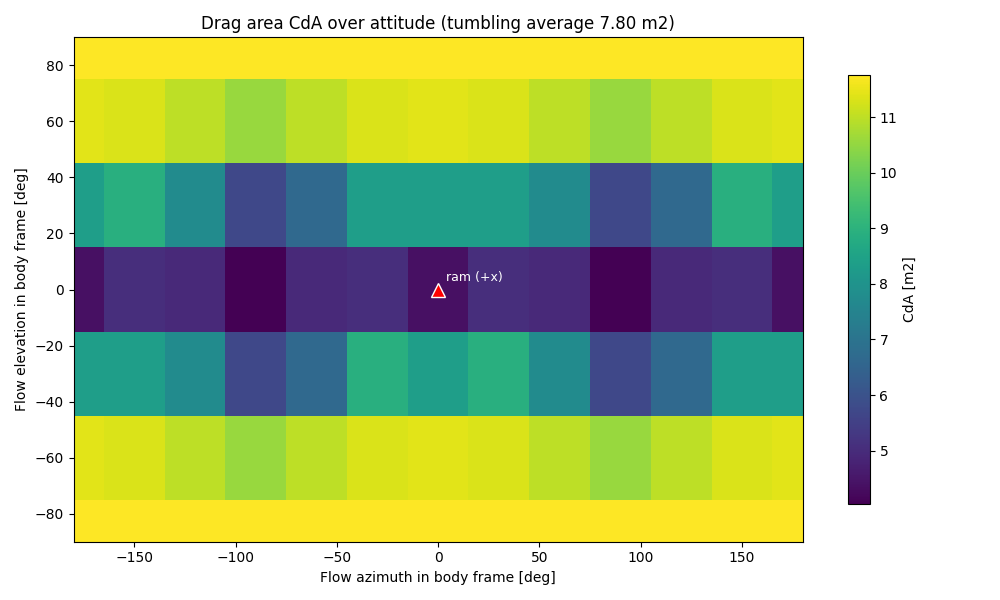
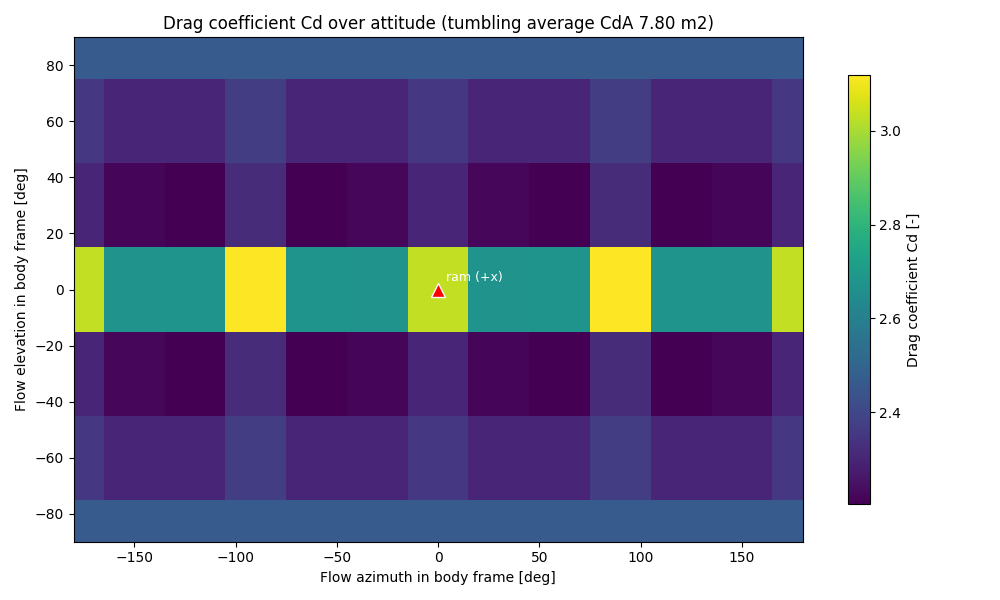
sat_drag_coefficient: separate Cd and area attitude maps, annotated 3D model figure
- The single CdA attitude map is replaced by a drag coefficient map
  (referenced to the projected area of each attitude) and a projected area
  map; the attitude CSV gains area_m2 and cd columns
- New <type>_model.png: 3D render of the satellite mesh with the body axes
  (+x flight/ram, +y, +z nadir) and the azimuth/elevation definition of the
  attitude sweep drawn as arcs on an example flow direction

diff --git a/src/analysis_sat.py b/src/analysis_sat.py
@@ -8,6 +8,8 @@ Satellite platform (subsystem) analyses:
 All work with any orbit propagator; sat_aocs samples the HPOP atmosphere
 model when available and falls back to a built-in exponential atmosphere.
 """
+import os
+
 import numpy as np
 import matplotlib.pyplot as plt
 from math import degrees, radians
@@ -793,6 +795,7 @@ class AnalysisSatDragCoefficient(AnalysisBase):
             .cell_data['Area'], dtype=float)
         self._centroids = np.asarray(mesh.cell_centers().points, dtype=float)
         self._mesh_length = float(mesh.length)
+        self._mesh = mesh  # Kept for the annotated 3D model figure
         self._obb = None
         if self.shadowing:
             import vtk
@@ -817,6 +820,61 @@ class AnalysisSatDragCoefficient(AnalysisBase):
                 if self._obb.IntersectWithLine(origin, end, points, None):
                     visible[i] = False
         return gamma[visible], self._areas[visible]
+
+    def _plot_model_3d(self, sm):
+        """Annotated 3D render of the satellite mesh with the body axes and
+        the azimuth/elevation definition of the attitude sweep (azimuth from
+        +x in the x/y plane, elevation towards +z), written to
+        <type>_model.png."""
+        import pyvista as pv
+        off_screen = os.environ.get('MPLBACKEND', '').lower() == 'agg'
+        plotter = pv.Plotter(off_screen=off_screen, window_size=[1200, 900])
+        plotter.set_background('white')
+        plotter.add_mesh(self._mesh, color='lightgray', show_edges=True,
+                         edge_color='darkgray')
+        scale = self._mesh_length * 0.7
+        origin = np.zeros(3)
+        axes = [(np.array([1.0, 0.0, 0.0]), 'red', '+x flight / ram (az=0, el=0)'),
+                (np.array([0.0, 1.0, 0.0]), 'green', '+y (az=90)'),
+                (np.array([0.0, 0.0, 1.0]), 'blue', '+z nadir (el=90)')]
+        label_points, label_texts = [], []
+        for direction, color, label in axes:
+            plotter.add_mesh(pv.Arrow(start=origin, direction=direction,
+                                      scale=scale, tip_radius=0.03,
+                                      shaft_radius=0.012), color=color)
+            label_points.append(direction * scale * 1.08)
+            label_texts.append(label)
+        # Example flow direction with its azimuth and elevation arcs
+        az, el = np.radians(45.0), np.radians(30.0)
+        flow = np.array([np.cos(el) * np.cos(az), np.cos(el) * np.sin(az),
+                         np.sin(el)])
+        plotter.add_mesh(pv.Arrow(start=origin, direction=flow, scale=scale,
+                                  tip_radius=0.03, shaft_radius=0.012),
+                         color='orange')
+        label_points.append(flow * scale * 1.1)
+        label_texts.append('flow direction (az=45, el=30)')
+        radius = 0.55 * scale
+        in_plane = np.array([np.cos(az), np.sin(az), 0.0])
+        az_arc = pv.CircularArc(pointa=np.array([radius, 0.0, 0.0]),
+                                pointb=in_plane * radius, center=origin)
+        el_arc = pv.CircularArc(pointa=in_plane * radius,
+                                pointb=flow * radius, center=origin)
+        plotter.add_mesh(az_arc, color='orange', line_width=3)
+        plotter.add_mesh(el_arc, color='orange', line_width=3)
+        mid_az = np.array([np.cos(az / 2.0), np.sin(az / 2.0), 0.0])
+        label_points.append(mid_az * radius * 1.05)
+        label_texts.append('azimuth')
+        mid_dir = in_plane * np.cos(el / 2.0) + \
+            np.array([0.0, 0.0, np.sin(el / 2.0)])
+        label_points.append(mid_dir * radius * 1.05)
+        label_texts.append('elevation')
+        plotter.add_point_labels(np.array(label_points), label_texts,
+                                 font_size=16, text_color='black',
+                                 shape=None, always_visible=True,
+                                 show_points=False)
+        plotter.view_isometric()
+        plotter.screenshot(sm.output_path(self.type + '_model.png'))
+        plotter.close()
 
     def _atmosphere(self, altitude_m, v_rel):
         """(speed ratio s, re-emission velocity ratio) at altitude from the
@@ -889,12 +947,15 @@ class AnalysisSatDragCoefficient(AnalysisBase):
         azimuths = np.arange(-180.0, 180.0 + 1e-9, self.attitude_step)
         elevations = np.arange(-90.0, 90.0 + 1e-9, self.attitude_step)
         cda_map = np.zeros((len(elevations), len(azimuths)))
+        area_map = np.zeros_like(cda_map)
         for i, el in enumerate(np.radians(elevations)):
             for j, az in enumerate(np.radians(azimuths)):
                 direction = np.array([np.cos(el) * np.cos(az),
                                       np.cos(el) * np.sin(az), np.sin(el)])
                 gamma, areas = self._incidence(direction)
                 cda_map[i, j] = sentman_cda(gamma, areas, mean_s, mean_v_ratio)
+                area_map[i, j] = float(np.sum(np.clip(gamma, 0.0, None) * areas))
+        cd_map = cda_map / np.maximum(area_map, 1e-12)
         weights = np.cos(np.radians(elevations))[:, None] * np.ones(len(azimuths))
         tumbling_cda = float(np.sum(cda_map * weights) / np.sum(weights))
 
@@ -903,29 +964,39 @@ class AnalysisSatDragCoefficient(AnalysisBase):
         ls.logger.info(f'{self.type}: nadir-fixed (+x ram) CdA {ram_cda:.3f} m2, '
                        f'Cd {ram_cd:.3f} on {self._ram_area:.2f} m2 projected area '
                        f'(speed ratio {mean_s:.1f})')
-        ls.logger.info(f'{self.type}: attitude sweep CdA {cda_map.min():.3f} .. '
-                       f'{cda_map.max():.3f} m2, tumbling average {tumbling_cda:.3f} m2')
+        ls.logger.info(f'{self.type}: attitude sweep projected area '
+                       f'{area_map.min():.2f} .. {area_map.max():.2f} m2, Cd '
+                       f'{cd_map.min():.2f} .. {cd_map.max():.2f}, CdA '
+                       f'{cda_map.min():.3f} .. {cda_map.max():.3f} m2, '
+                       f'tumbling average CdA {tumbling_cda:.3f} m2')
         ls.logger.info(f'{self.type}: suggested config values '
                        f'<DragArea>{self._ram_area:.3f}</DragArea> '
                        f'<DragCd>{ram_cd:.3f}</DragCd> (nadir-fixed), or '
                        f'DragArea*DragCd = {tumbling_cda:.3f} m2 (tumbling)')
 
-        fig, ax = plt.subplots(figsize=(10, 6))
-        mesh_plot = ax.pcolormesh(azimuths, elevations, cda_map, shading='auto',
-                                  cmap=plt.cm.viridis)
-        ax.plot(0.0, 0.0, 'r^', markersize=10, markeredgecolor='white')
-        ax.annotate('ram (+x)', (0.0, 0.0), xytext=(6, 6),
-                    textcoords='offset points', color='white', fontsize=9)
-        ax.set_xlabel('Flow azimuth in body frame [deg]')
-        ax.set_ylabel('Flow elevation in body frame [deg]')
-        ax.set_xlim(-180, 180)
-        ax.set_ylim(-90, 90)
-        ax.set_title(f'Drag area CdA over attitude (tumbling average '
-                     f'{tumbling_cda:.2f} m2)')
-        plt.colorbar(mesh_plot, ax=ax, shrink=0.85, label='CdA [m2]')
-        fig.tight_layout()
-        plt.savefig(sm.output_path(self.type + '.png'))
-        plt.show()
+        # Separate attitude maps for the drag coefficient (referenced to the
+        # projected area of each attitude) and the projected area itself
+        for values, label, suffix in (
+                (cd_map, 'Drag coefficient Cd [-]', ''),
+                (area_map, 'Projected area A [m2]', '_area')):
+            fig, ax = plt.subplots(figsize=(10, 6))
+            mesh_plot = ax.pcolormesh(azimuths, elevations, values,
+                                      shading='auto', cmap=plt.cm.viridis)
+            ax.plot(0.0, 0.0, 'r^', markersize=10, markeredgecolor='white')
+            ax.annotate('ram (+x)', (0.0, 0.0), xytext=(6, 6),
+                        textcoords='offset points', color='white', fontsize=9)
+            ax.set_xlabel('Flow azimuth in body frame [deg]')
+            ax.set_ylabel('Flow elevation in body frame [deg]')
+            ax.set_xlim(-180, 180)
+            ax.set_ylim(-90, 90)
+            ax.set_title(f'{label.split(" [")[0]} over attitude (tumbling '
+                         f'average CdA {tumbling_cda:.2f} m2)')
+            plt.colorbar(mesh_plot, ax=ax, shrink=0.85, label=label)
+            fig.tight_layout()
+            plt.savefig(sm.output_path(self.type + suffix + '.png'))
+            plt.show()
+
+        self._plot_model_3d(sm)
 
         fig, ax1 = plt.subplots(figsize=(10, 6))
         ax1.plot(times, self.metric[:, 3], '-', color='C0', linewidth=1.0)
@@ -947,7 +1018,8 @@ class AnalysisSatDragCoefficient(AnalysisBase):
                             'cd_a_m2', 'cd'],
                        np.column_stack([times, self.metric]))
         az_grid, el_grid = np.meshgrid(azimuths, elevations)
-        self.write_csv(sm, ['az_deg', 'el_deg', 'cd_a_m2'],
+        self.write_csv(sm, ['az_deg', 'el_deg', 'area_m2', 'cd', 'cd_a_m2'],
                        np.column_stack([az_grid.ravel(), el_grid.ravel(),
+                                        area_map.ravel(), cd_map.ravel(),
                                         cda_map.ravel()]),
                        suffix='attitude')

diff --git a/readme.md b/readme.md
@@ -1734,8 +1734,11 @@ gas-surface interaction, with ray-cast shadowing between panels. The mesh is the
 same dependency as the 3D plots), or the built-in bus + solar panel model.
 
 Outputs:
-- the drag area CdA over a body-frame attitude sweep of the flow direction
-  (map plot with the ram (+x) attitude marked, plus the tumbling average),
+- separate attitude-sweep maps of the drag coefficient Cd (referenced to the
+  projected area of each attitude) and of the projected area A, with the ram
+  (+x) attitude marked and the tumbling-average CdA in the title,
+- an annotated 3D render of the model with the body axes and the
+  azimuth/elevation definition of the sweep (`<type>_model.png`),
 - CdA along the orbit for a nadir-fixed spacecraft (+x flight direction; the
   molecular speed ratio follows the altitude through an NRLMSISE-class mean
   composition and temperature profile),
@@ -1781,7 +1784,9 @@ Optional in the analysis part are:
   on convex shapes).
 - MaxFacets: larger meshes are decimated to this facet count (default 5000).
 
+<img src="/docs/sat_drag_coefficient_model.png" alt="sat_drag_coefficient_model"/>
 <img src="/docs/sat_drag_coefficient.png" alt="sat_drag_coefficient"/>
+<img src="/docs/sat_drag_coefficient_area.png" alt="sat_drag_coefficient_area"/>
 <img src="/docs/sat_drag_coefficient_orbit.png" alt="sat_drag_coefficient_orbit"/>
 
 